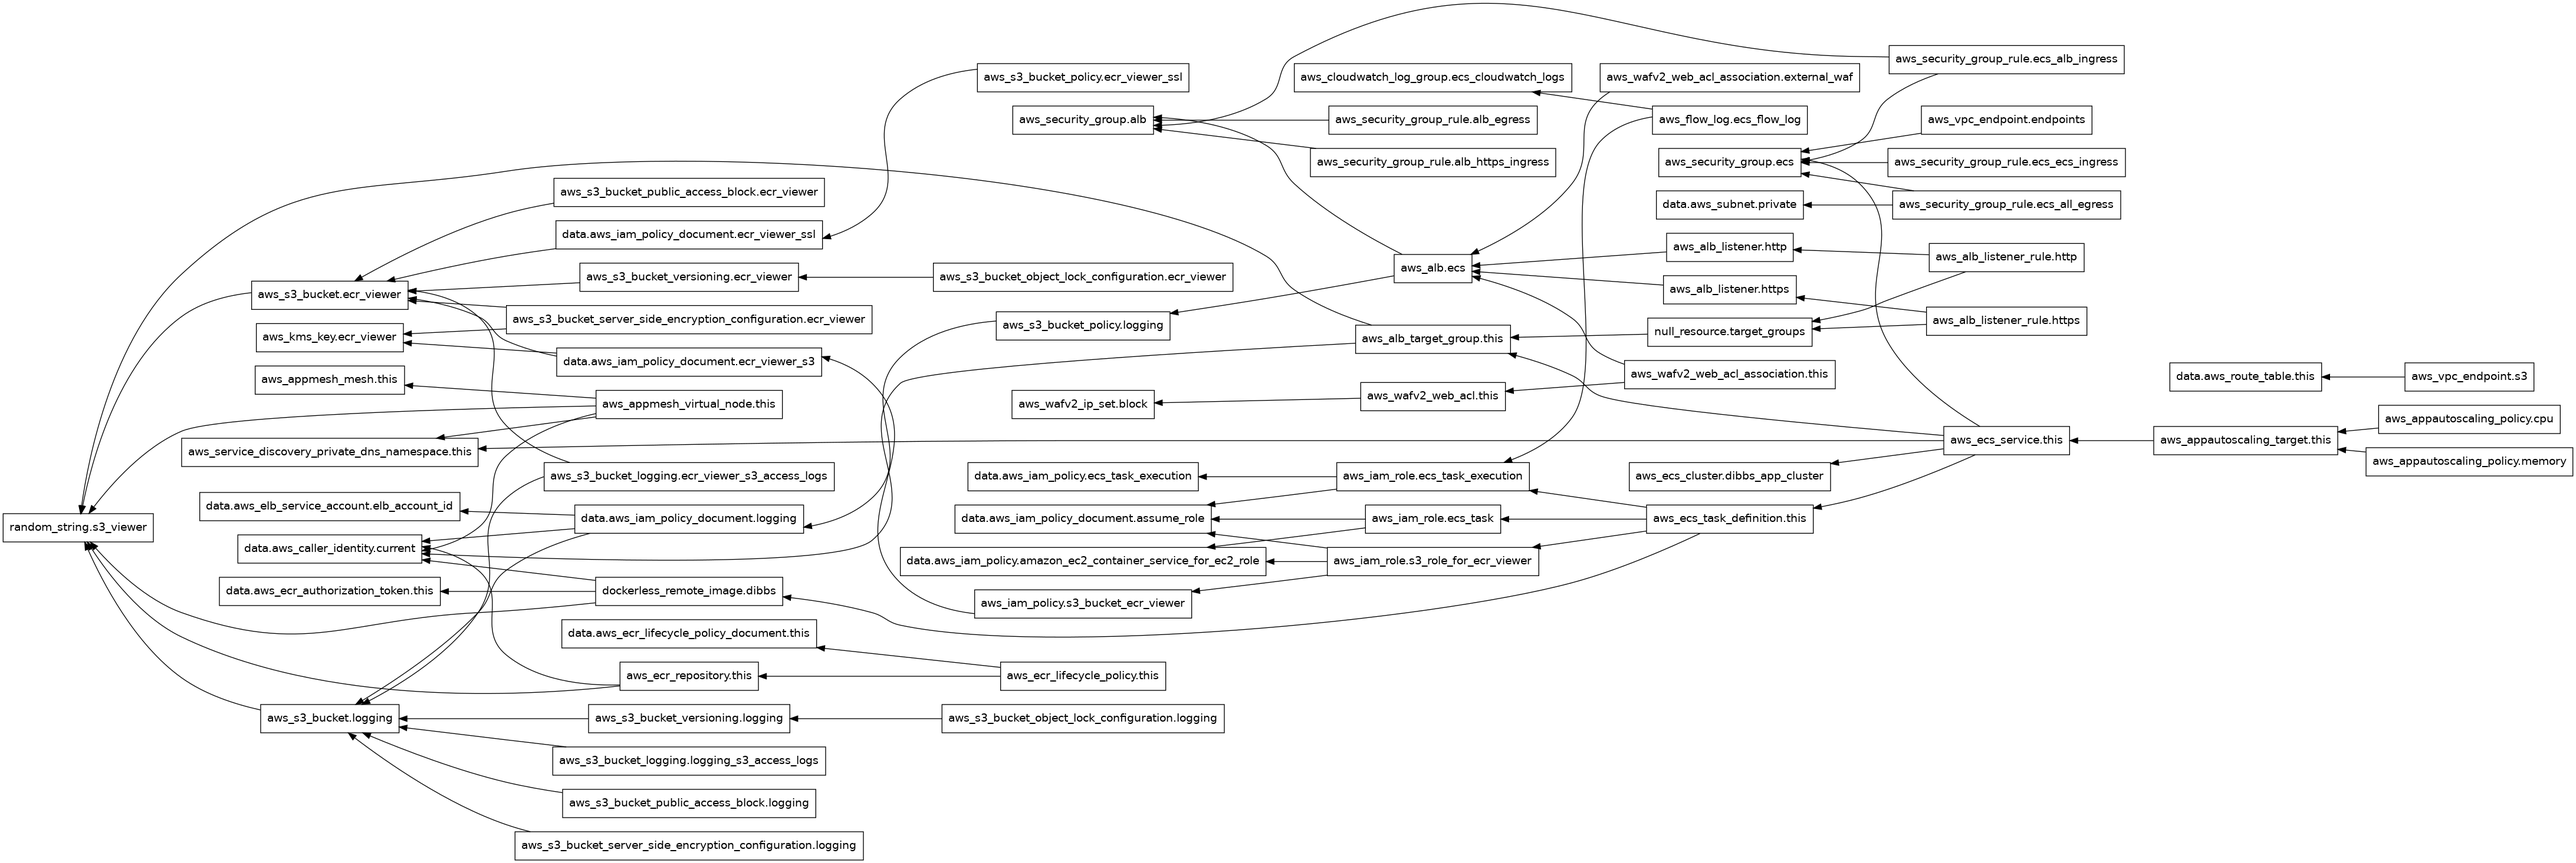
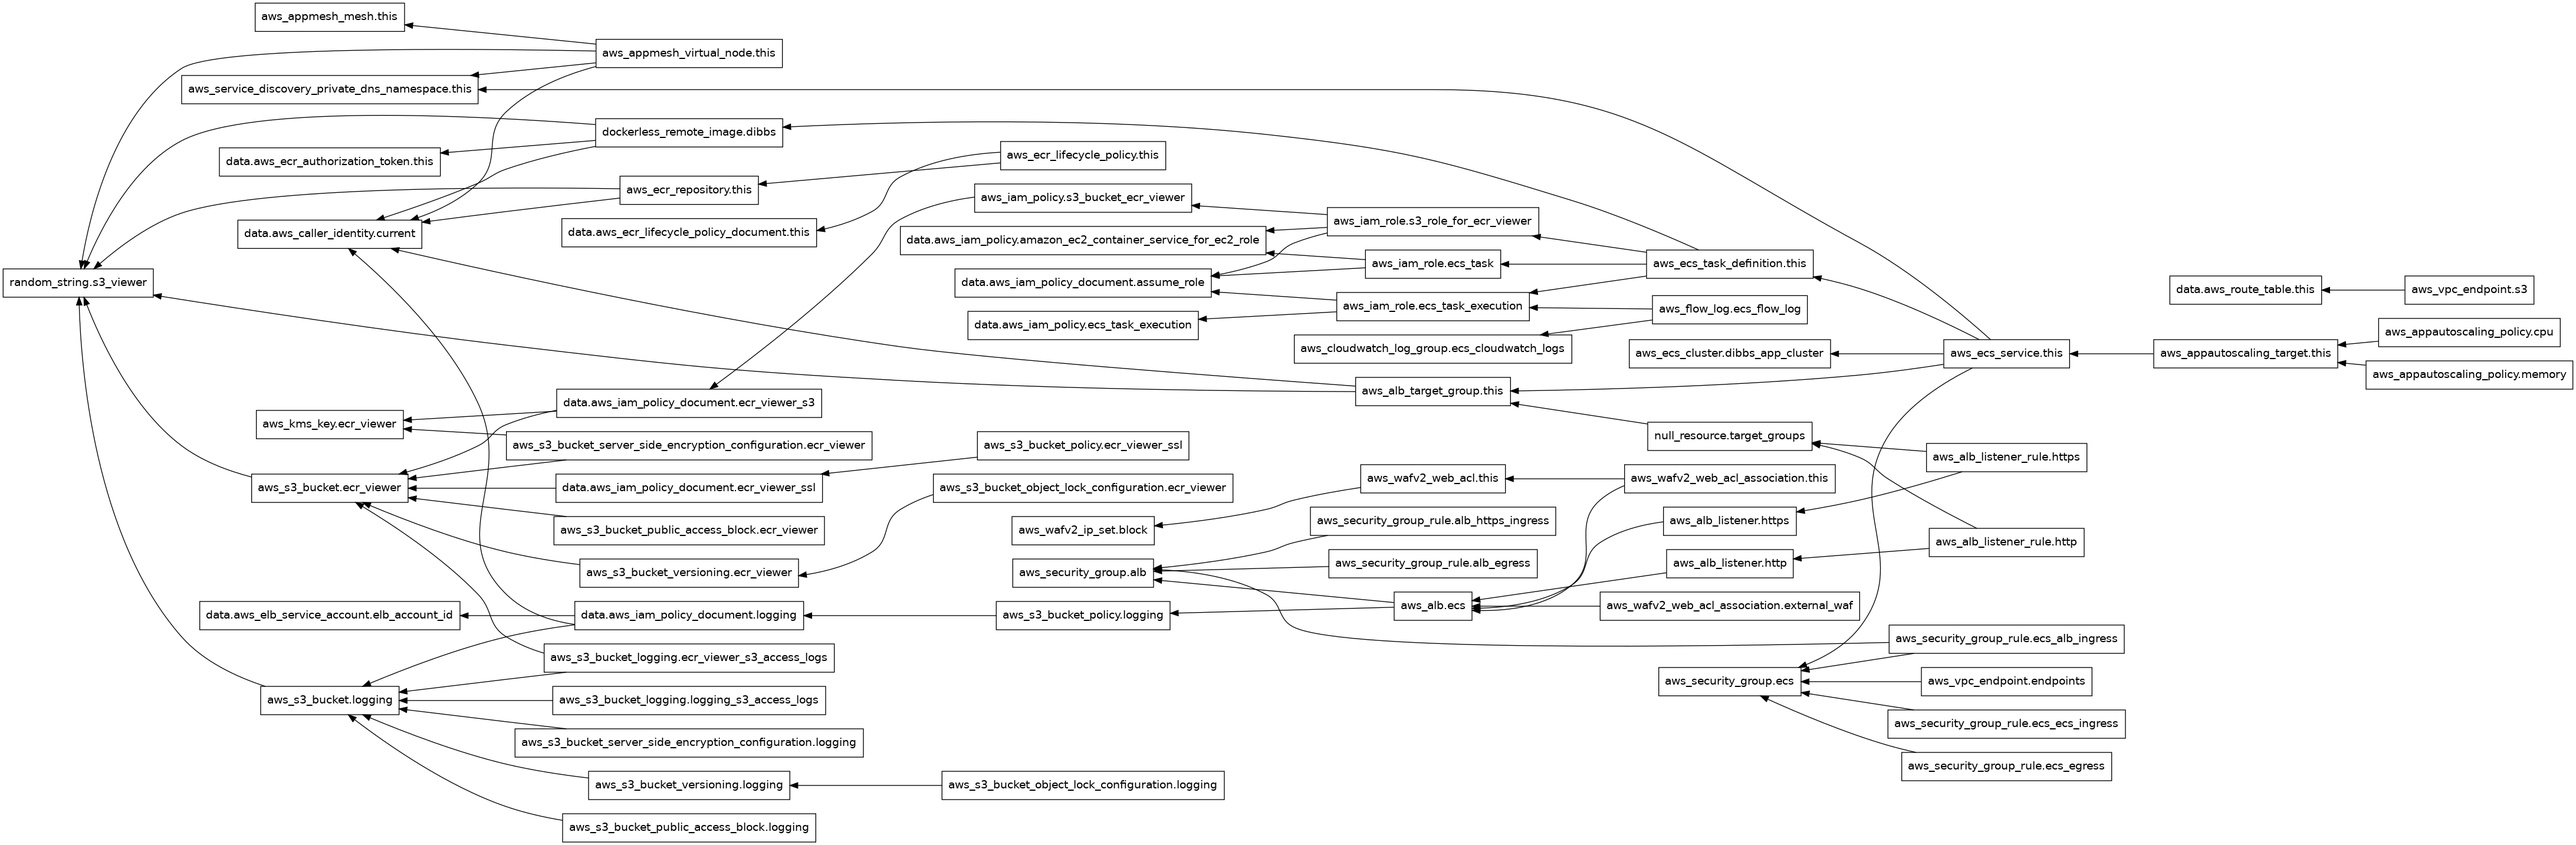
docs: update README with security group rule changes and remove unused data source

diff --git a/README.md b/README.md
@@ -166,8 +166,8 @@ No modules.
 | [aws_security_group_rule.alb_egress](https://registry.terraform.io/providers/hashicorp/aws/latest/docs/resources/security_group_rule) | resource |
 | [aws_security_group_rule.alb_https_ingress](https://registry.terraform.io/providers/hashicorp/aws/latest/docs/resources/security_group_rule) | resource |
 | [aws_security_group_rule.ecs_alb_ingress](https://registry.terraform.io/providers/hashicorp/aws/latest/docs/resources/security_group_rule) | resource |
-| [aws_security_group_rule.ecs_all_egress](https://registry.terraform.io/providers/hashicorp/aws/latest/docs/resources/security_group_rule) | resource |
 | [aws_security_group_rule.ecs_ecs_ingress](https://registry.terraform.io/providers/hashicorp/aws/latest/docs/resources/security_group_rule) | resource |
+| [aws_security_group_rule.ecs_egress](https://registry.terraform.io/providers/hashicorp/aws/latest/docs/resources/security_group_rule) | resource |
 | [aws_service_discovery_private_dns_namespace.this](https://registry.terraform.io/providers/hashicorp/aws/latest/docs/resources/service_discovery_private_dns_namespace) | resource |
 | [aws_vpc_endpoint.endpoints](https://registry.terraform.io/providers/hashicorp/aws/latest/docs/resources/vpc_endpoint) | resource |
 | [aws_vpc_endpoint.s3](https://registry.terraform.io/providers/hashicorp/aws/latest/docs/resources/vpc_endpoint) | resource |
@@ -189,7 +189,6 @@ No modules.
 | [aws_iam_policy_document.ecr_viewer_ssl](https://registry.terraform.io/providers/hashicorp/aws/latest/docs/data-sources/iam_policy_document) | data source |
 | [aws_iam_policy_document.logging](https://registry.terraform.io/providers/hashicorp/aws/latest/docs/data-sources/iam_policy_document) | data source |
 | [aws_route_table.this](https://registry.terraform.io/providers/hashicorp/aws/latest/docs/data-sources/route_table) | data source |
-| [aws_subnet.private](https://registry.terraform.io/providers/hashicorp/aws/latest/docs/data-sources/subnet) | data source |
 
 ## Inputs
 
